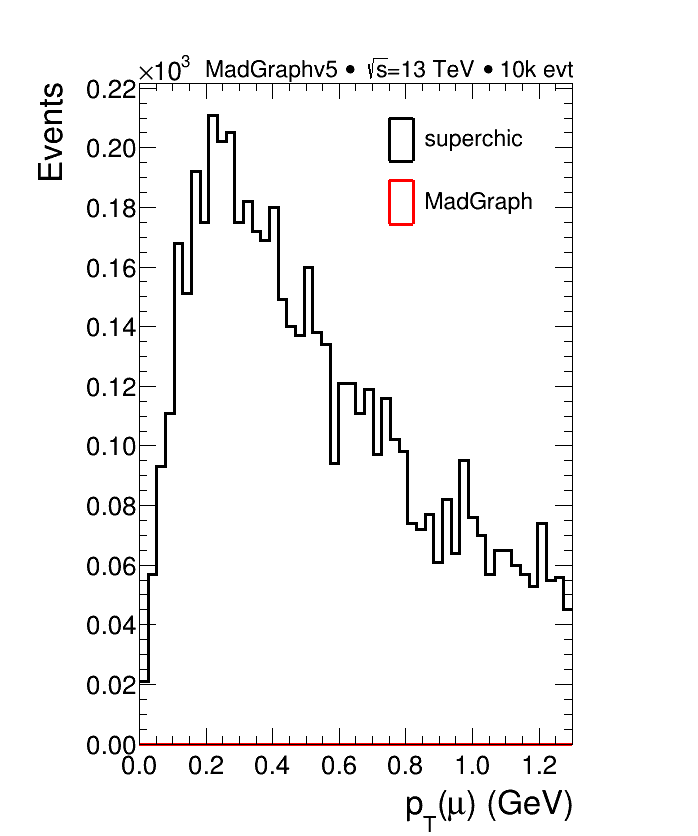
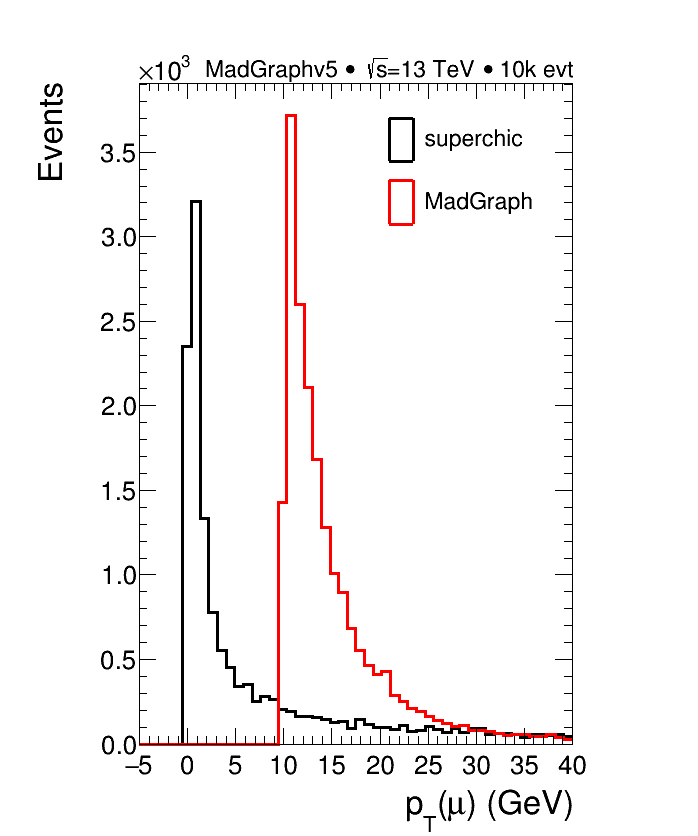
Atualização

diff --git a/graficos/grafico_final_full.py b/graficos/grafico_final_full.py
@@ -186,10 +186,10 @@ for i in range(len(FILES)):
     proten.append(TH1D("1D_proten"+"_"+PDF[i]       , "", 50,4300., 7200.))
     protxi.append(TH1D("1D_protxi"+"_"+PDF[i]       , "", 50,0., .03))
     protpt.append(TH1D("1D_protpt"+"_"+PDF[i]       , "", 50,-0.1, 1.))
-    mpp.append(TH1D("1D_mpp"+"_"+PDF[i]       , "", 50,0., 100.)) # pico do superchic em 466. (erro ?)
-    mupz.append(TH1D("1D_mupz"+"_"+PDF[i]       , "", 50,-5000., 5000.))
-    muen.append(TH1D("1D_muen"+"_"+PDF[i]       , "", 50,700., 4000.))
-    mupt.append(TH1D("1D_mupt"+"_"+PDF[i]       , "", 50,0., 1.3))
+    mpp.append(TH1D("1D_mpp"+"_"+PDF[i]       , "", 50,0., 100.))
+    mupz.append(TH1D("1D_mupz"+"_"+PDF[i]       , "", 50,-2500.,2500.))
+    muen.append(TH1D("1D_muen"+"_"+PDF[i]       , "", 50,-100., 900.))
+    mupt.append(TH1D("1D_mupt"+"_"+PDF[i]       , "", 50,-5., 40.0))
     phopz.append(TH1D("1D_phopz"+"_"+PDF[i]       , "", 50,4973., 4980.))
     phopt.append(TH1D("1D_phopt"+"_"+PDF[i]       , "", 50,0., 500.))
     phoen.append(TH1D("1D_phoen"+"_"+PDF[i]       , "", 50,-100., 2000.))
